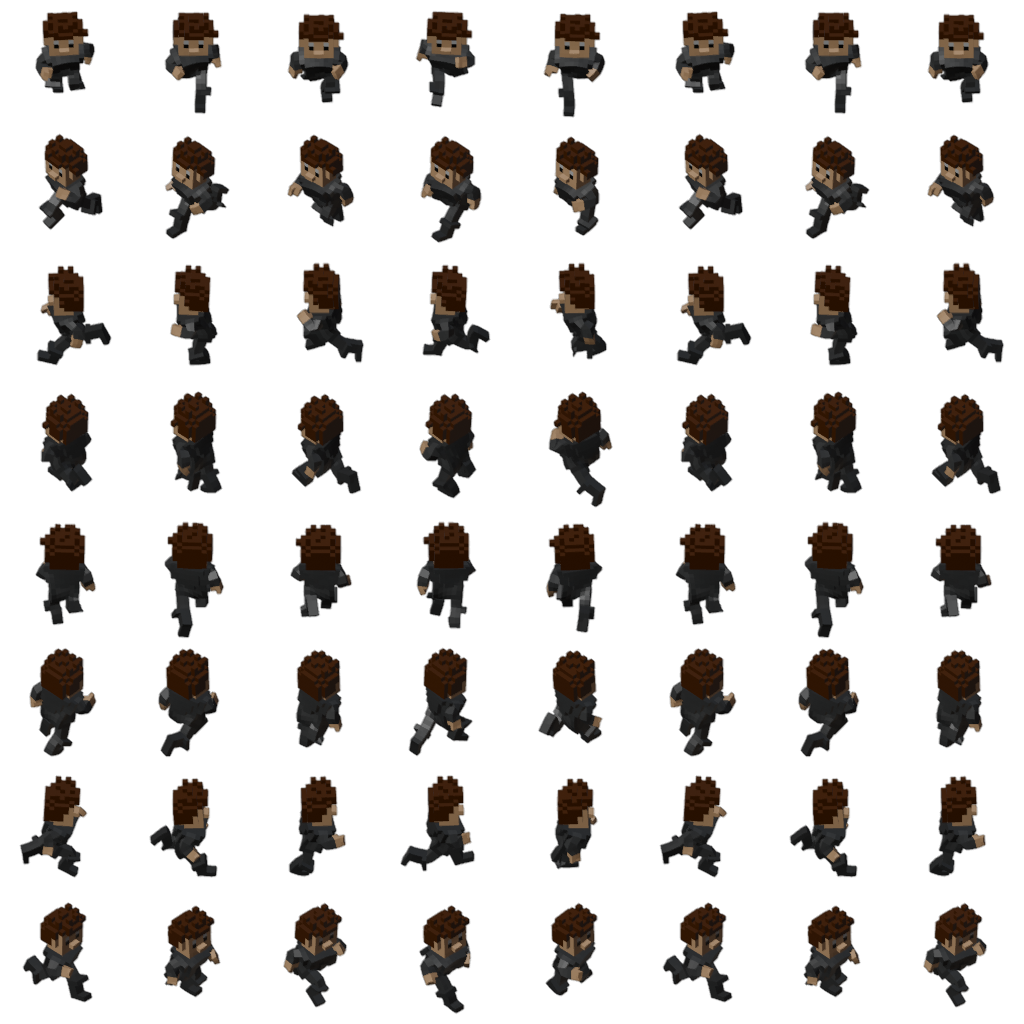
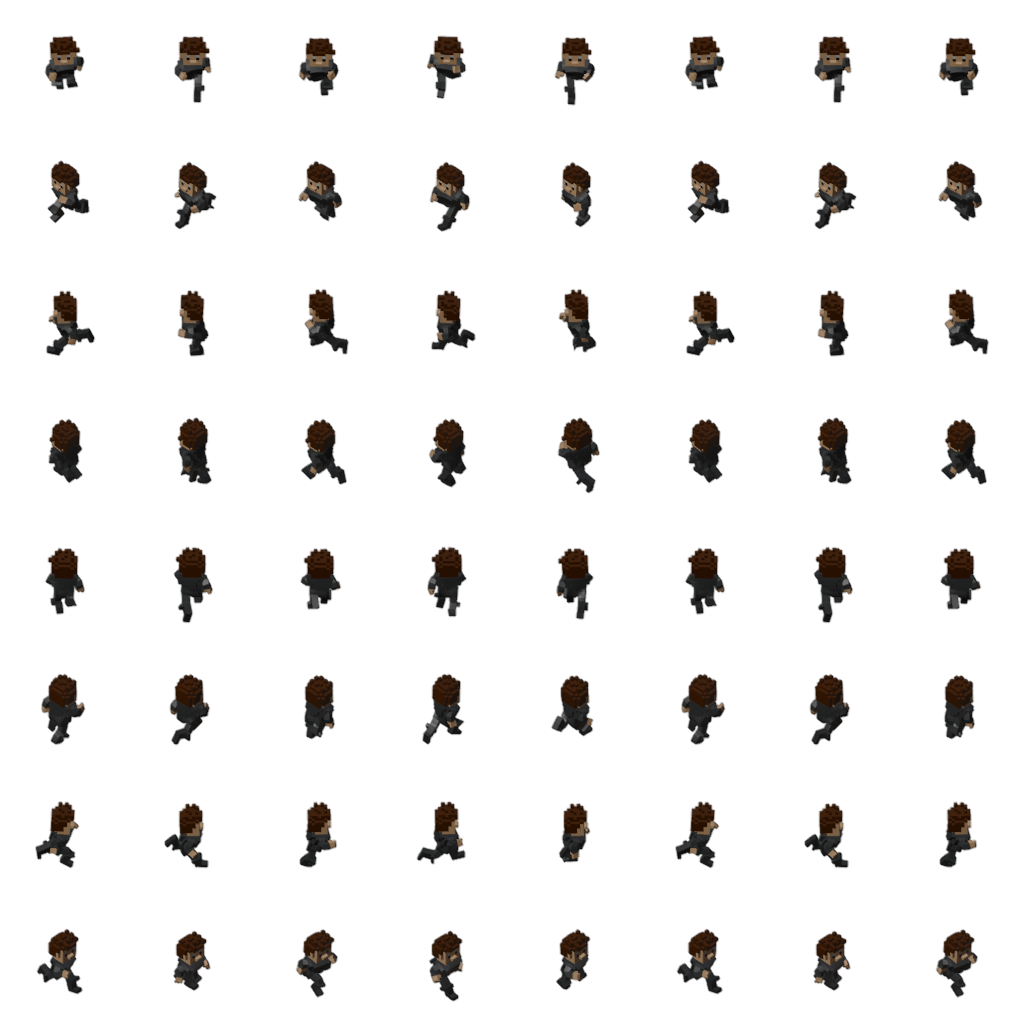
Hero attack

diff --git a/src/game/Game.ts b/src/game/Game.ts
@@ -40,6 +40,11 @@ export class Game {
           textureMatch: 'hero-run',
           frames: 8,
         }),
+        attack: createCharacterSpriteData({
+          size: 128,
+          textureMatch: 'hero-attack-sword',
+          frames: 8,
+        }),
       },
       scorpion: {
         walk: createCharacterSpriteData({
@@ -64,6 +69,7 @@ export class Game {
         '/tileset.png',
         '/animations/hero-walk.png',
         '/animations/hero-run.png',
+        '/animations/hero-attack-sword.png',
         '/animations/scorpion-walk.png',
         startLevelData.imageUrl.href,
       ],

diff --git a/src/game/object/Character.ts b/src/game/object/Character.ts
@@ -1,3 +1,4 @@
+import { vec2 } from 'littlejsengine'
 import { Entity } from './Entity'
 import type {
   AnimationID,
@@ -23,6 +24,7 @@ export class Character extends Entity implements ICharacter {
     if (this.movementController) {
       this.velocity = this.movementController.nextVelocity()
       this.direction = this.movementController.nextDirection()
+      this.animation = this.movementController.nextAnimation()
 
       if (this.orientCollisionBoxWithDirection) {
         this.angle = getDirectionAngle(this.direction)

diff --git a/src/game/controller/PlayerMovementController.ts b/src/game/controller/PlayerMovementController.ts
@@ -11,7 +11,21 @@ export class PlayerMovementController implements IMovementController {
   player
 
   nextAnimation(): string {
-    return this.player.animation
+    const isAttacking = keyIsDown('Space')
+    if (isAttacking) {
+      return 'attack'
+    }
+
+    if (this.player.velocity.length() === 0) {
+      return 'idle'
+    }
+
+    const isRunning = keyIsDown('ShiftLeft')
+    if (isRunning) {
+      return 'run'
+    }
+
+    return 'walk'
   }
 
   nextDirection(): Direction {

diff --git a/src/game/object/Player.ts b/src/game/object/Player.ts
@@ -1,15 +1,3 @@
 import { Character } from './Character'
 
-export class Player extends Character {
-  update() {
-    super.update()
-
-    if (this.velocity.length() === 0) {
-      this.animation = 'idle'
-    } else if (this.isRunning) {
-      this.animation = 'run'
-    } else {
-      this.animation = 'walk'
-    }
-  }
-}
+export class Player extends Character {}
